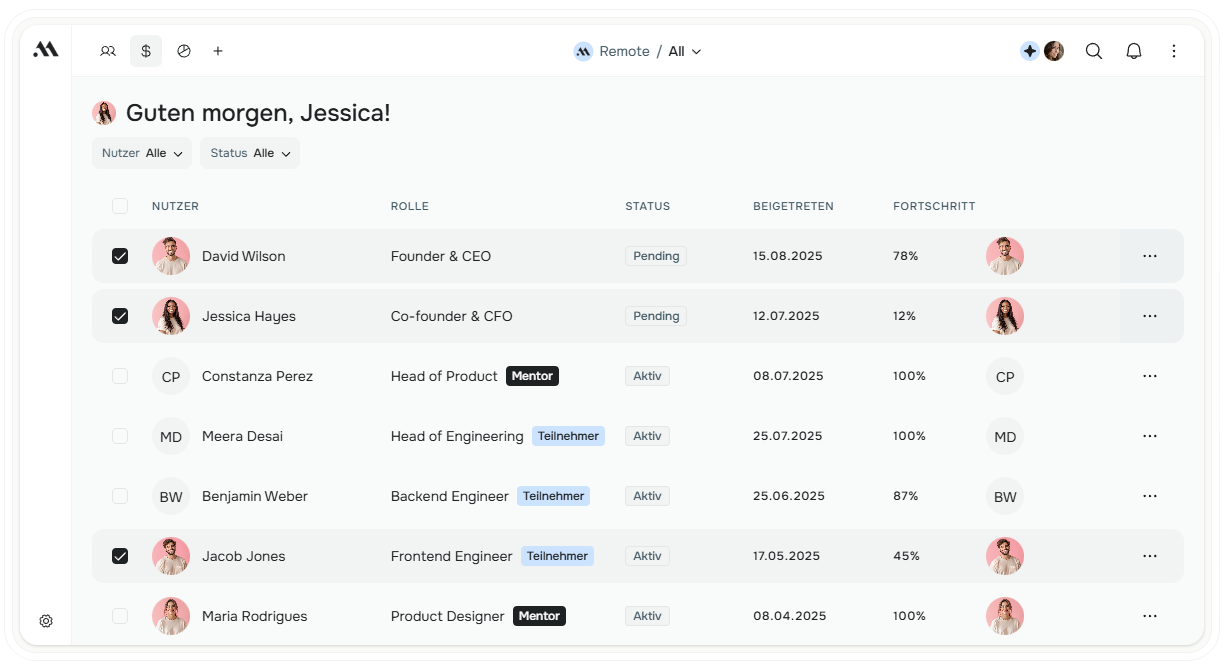
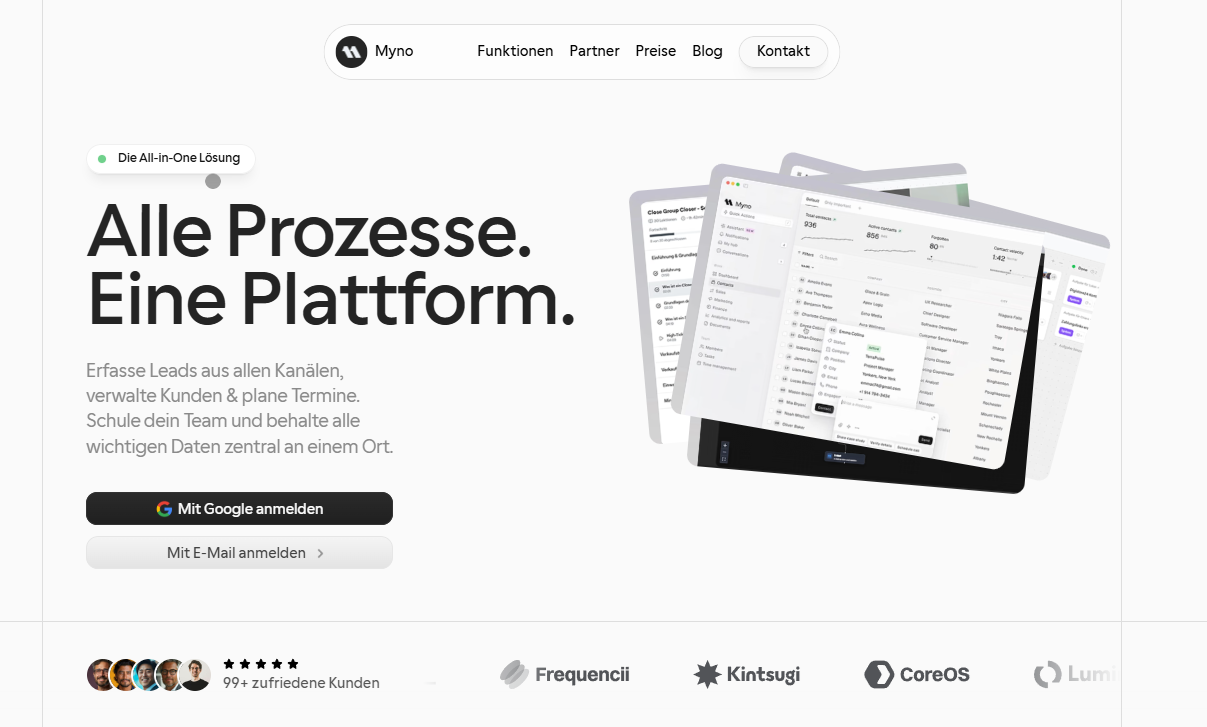
Partner-Link auf myno.co aktualisiert und Navbar-Buttons angepasst.

diff --git a/index.html b/index.html
@@ -210,13 +210,13 @@
                   </div>
                 </div>
                 <div class="wrapper-transparent-btn">
-                  <a href="https://app.theclosegroup.de/login" class="button-transparent w-inline-block">
+                  <a href="contact-us.html" class="button-transparent w-inline-block">
                     <div class="clip">
                       <div class="btn-banner-text">
-                        <div class="btn-title-text">LOGIN</div>
+                        <div class="btn-title-text">JETZT BEWERBEN</div>
                       </div>
                       <div class="btn-banner-text button-text-bottom">
-                        <div class="btn-title-text">LOGIN</div>
+                        <div class="btn-title-text">touch</div>
                       </div>
                     </div>
                     <div class="clip">
@@ -225,14 +225,14 @@
                     </div>
                   </a>
                 </div>
-                <div class="wrapper-transparent-btn">
-                  <a href="contact-us.html" class="button-transparent w-inline-block">
+                <div class="wrapper-transparent-btn" style="margin-left:18px;">
+                  <a href="https://app.theclosegroup.de/login" class="button-transparent w-inline-block">
                     <div class="clip">
                       <div class="btn-banner-text">
-                        <div class="btn-title-text">JETZT BEWERBEN</div>
+                        <div class="btn-title-text">LOGIN</div>
                       </div>
                       <div class="btn-banner-text button-text-bottom">
-                        <div class="btn-title-text">touch</div>
+                        <div class="btn-title-text">LOGIN</div>
                       </div>
                     </div>
                     <div class="clip">
@@ -1492,7 +1492,7 @@
           <div class="cg-partner-info">
             <div class="cg-partner-logo"><img src="images/MentorSpace_Logo.png" alt="MentorSpace" loading="lazy"></div>
             <p class="cg-partner-desc">Die All-in-One-Betriebssoftware für Coaches und Creator: Kurse hochladen, Mitglieder verwalten, Zahlungen abwickeln und eine eigene Community aufbauen.</p>
-            <a href="https://mentorspace.net/" target="_blank" rel="noopener" class="cg-partner-link">Mehr erfahren
+            <a href="https://www.myno.co/" target="_blank" rel="noopener" class="cg-partner-link">Mehr erfahren
               <svg viewBox="0 0 24 24"><line x1="5" y1="12" x2="19" y2="12"/><polyline points="13 6 19 12 13 18"/></svg>
             </a>
           </div>

diff --git a/contact-us.html b/contact-us.html
@@ -201,13 +201,13 @@
                   </div>
                 </div>
                 <div class="wrapper-transparent-btn">
-                  <a href="https://app.theclosegroup.de/login" class="button-transparent w-inline-block">
+                  <a href="contact-us.html" aria-current="page" class="button-transparent w-inline-block w--current">
                     <div class="clip">
                       <div class="btn-banner-text">
-                        <div class="btn-title-text">LOGIN</div>
+                        <div class="btn-title-text">JETZT BEWERBEN</div>
                       </div>
                       <div class="btn-banner-text button-text-bottom">
-                        <div class="btn-title-text">LOGIN</div>
+                        <div class="btn-title-text">touch</div>
                       </div>
                     </div>
                     <div class="clip">
@@ -216,14 +216,14 @@
                     </div>
                   </a>
                 </div>
-                <div class="wrapper-transparent-btn">
-                  <a href="contact-us.html" aria-current="page" class="button-transparent w-inline-block w--current">
+                <div class="wrapper-transparent-btn" style="margin-left:18px;">
+                  <a href="https://app.theclosegroup.de/login" class="button-transparent w-inline-block">
                     <div class="clip">
                       <div class="btn-banner-text">
-                        <div class="btn-title-text">JETZT BEWERBEN</div>
+                        <div class="btn-title-text">LOGIN</div>
                       </div>
                       <div class="btn-banner-text button-text-bottom">
-                        <div class="btn-title-text">touch</div>
+                        <div class="btn-title-text">LOGIN</div>
                       </div>
                     </div>
                     <div class="clip">
